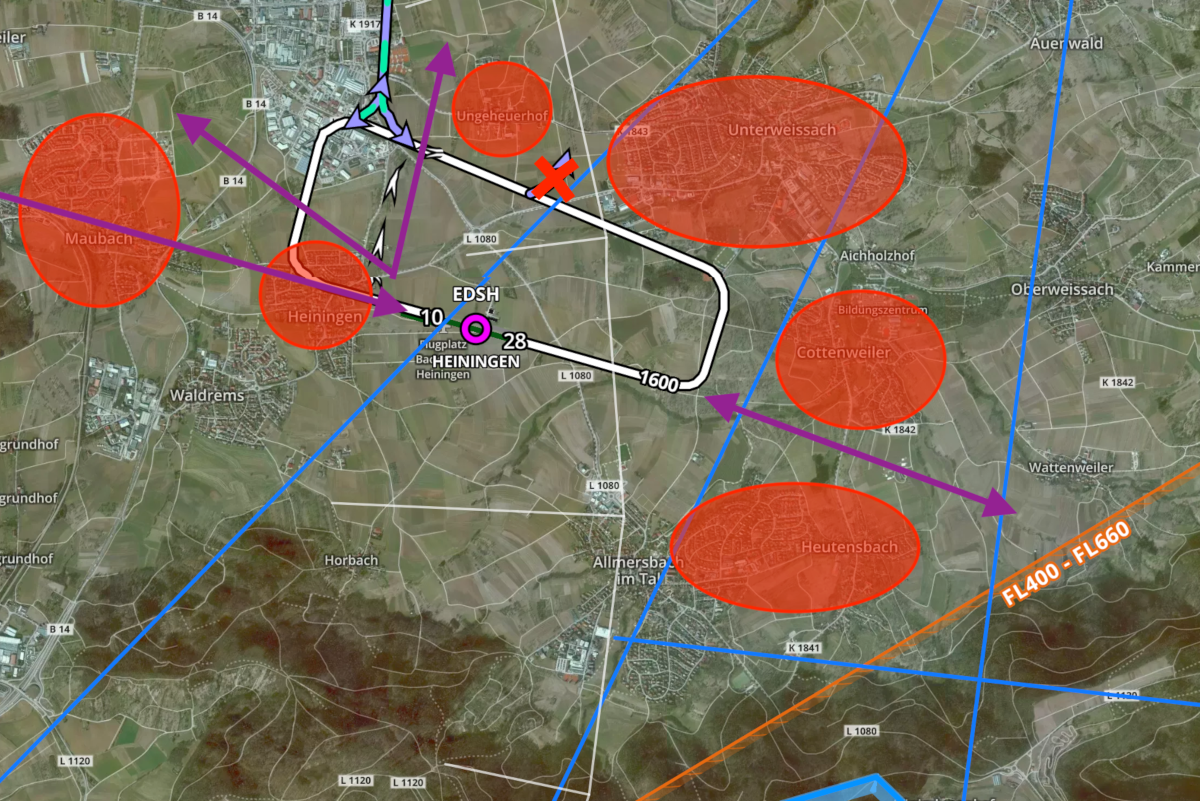
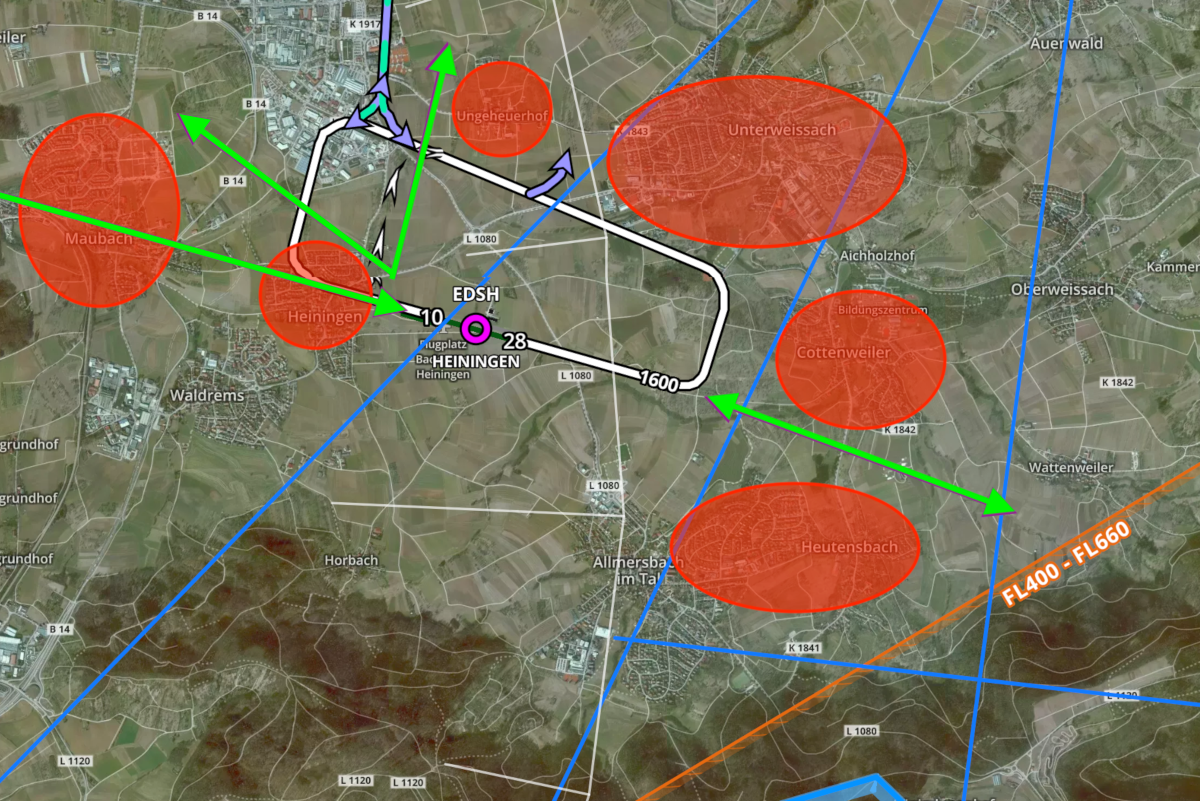
Further improvements in dept and arrival info

diff --git a/content/flugplatz/piloteninfo.html b/content/flugplatz/piloteninfo.html
@@ -166,12 +166,13 @@ menu:
 
         <figure>
           <img alt="Screenshot mit den zu vermeidenden Gebieten" src="noise-areas-edsh.png" width="1200" height="801">
-          <footer style="float: right"><small>Screenshot: <a href="https://www.foreflight.com/">ForeFlight</a></small></footer>
+          <footer style="float: right"><small>Screenshot: <a href="https://www.foreflight.com/">ForeFlight</a>, Ergänzungen durch den LSV.</small></footer>
           <figcaption>
-            <p>Bitte Überflüge über bebaute Gebiete möglichst vermeiden, insbesondere die rot markierten. Für an- und Anflüge
-              die lila Pfeilrichtungen befolgen.</p>
+            <p>Bitte Überflüge über bebaute Gebiete möglichst vermeiden, insbesondere die rot markierten. Für An- und Abflüge
+              schlagen wir die grünen Pfeilrichtungen vor. Die fliederfarbenen Pfeile stellen die offiziell veröffentlichten
+              Verfahren dar.</p>
             <p lang="en" style="font-style: italic">Avoid overflying of residential areas, especially the ones highlighted red.
-              For departures and arrivals follow the purple arrows.</p>
+              For departures and arrivals follow the green arrows. The lilac arrows depict the officially published procedures.</p>
           </figcaption>
         </figure>
       </div>
